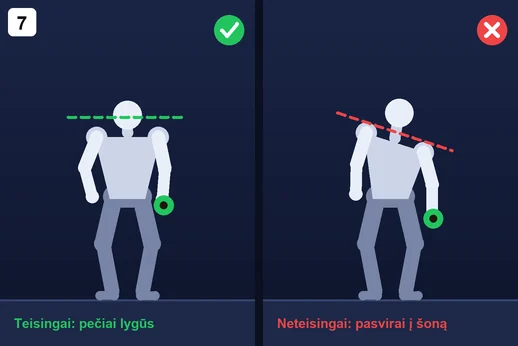
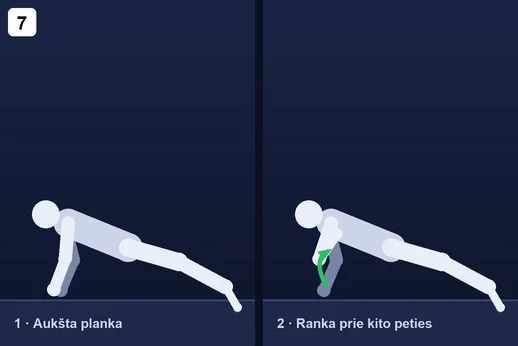
Hip thrust -> vienos kojos sėdmenų tiltas, carry -> pilvo pratimai be svorio
Hard Gym D3: Barbell Hip Thrust pakeistas į Single-Leg Glute Bridge (ant grindų,
kairė pusė pirma + papildomas setas). Kyokushin mix C7 ir Hard Gym D7: Kettlebell
Front Rack Carry -> Side Plank Hip Lift, Suitcase Carry -> Plank Shoulder Taps
(nekrauna trapecijų). Nauji piešiniai C_7s, C_7v, G_D3 (tools/draw_core.py).

diff --git a/tools/draw_gym.py b/tools/draw_gym.py
@@ -3,6 +3,7 @@
 Usage:  py tools/draw_gym.py [name ...]     (no names = all)
 Pictures reused from the Kyokushin program are copied with the right number by tools/make_hard_gym.py.
 """
+import math
 import sys
 
 from draw_exercises import Pic, dumbbell_side, go, side_figure
@@ -169,32 +170,25 @@ def gc7():
 
 
 def gd3():
-    """Barbell hip thrust: upper back on a bench, feet on the floor."""
+    """Single-leg glute bridge on the floor: one foot flat, the other leg straight, hips lifted."""
     pic, acc = Pic(), ACC["D"]
     for i in range(2):
         standing_view(pic, i, 1.15)
-        top = 240
-        rect(pic, 18, top, 96, top + 9, EQUIP_HI)
-        rect(pic, 28, top + 9, 36, 300, EQUIP)
-        rect(pic, 78, top + 9, 86, 300, EQUIP)
-        sh = (90, 232)
-        hip = (122, 276) if i == 0 else (142, 240)
-        ankle = (184, 292)
-        n_knee, n_ankle = limb(hip, ankle, 44, 44, (hip[0] + 44, hip[1] - 44))
-        f_knee, f_ankle = (n_knee[0] - 5, n_knee[1] + 2), (n_ankle[0] - 7, n_ankle[1])
-        bar = (hip[0] + 2, hip[1] - 12)
-        n_elbow, n_hand = limb(sh, bar, 30, 27, (sh[0] + 22, sh[1] + 22))
-        f_sh = (sh[0] - 3, sh[1] + 2)
-        f_elbow, f_hand = limb(f_sh, (bar[0] - 2, bar[1] + 1), 30, 27, (sh[0] + 18, sh[1] + 24))
-        j = dict(hip=hip, sh=sh, head=go(sh, 150 if i == 0 else 160, 20), n_knee=n_knee, n_ankle=n_ankle,
-                 n_toe=go(n_ankle, 0, 20), f_knee=f_knee, f_ankle=f_ankle, f_toe=go(f_ankle, 0, 20), f_sh=f_sh,
-                 n_elbow=n_elbow, n_hand=n_hand, f_elbow=f_elbow, f_hand=f_hand)
+        sh = (62, 284)
+        hip = (128, 284) if i == 0 else (134, 250)
+        f_knee, f_ankle = limb(hip, (190, 290), 44, 44, (hip[0] + 30, hip[1] - 60))
+        d = (f_knee[0] - hip[0], f_knee[1] - hip[1]) if i == 0 else (hip[0] - sh[0], hip[1] - sh[1])
+        u = (d[0] / math.hypot(*d), d[1] / math.hypot(*d))
+        n_knee = (hip[0] + u[0] * 44, hip[1] + u[1] * 44)
+        n_ankle = (hip[0] + u[0] * 88, hip[1] + u[1] * 88)
+        ang = math.degrees(math.atan2(-u[1], u[0]))
+        j = dict(hip=hip, sh=sh, head=go(sh, 178, 20), n_knee=n_knee, n_ankle=n_ankle, n_toe=go(n_ankle, ang + 90, 14),
+                 f_knee=f_knee, f_ankle=f_ankle, f_toe=go(f_ankle, 0, 18), f_sh=(sh[0] + 2, sh[1] + 2),
+                 n_elbow=(sh[0] + 28, 290), n_hand=(sh[0] + 54, 291), f_elbow=(sh[0] + 26, 291), f_hand=(sh[0] + 52, 292))
         side_figure(pic, j)
-        pic.path(arc_pts(bar, 25, 0, 360, 40), acc, 4.5)
-        pic.dot(bar, 5, GREY)
         if i:
-            pic.arrow((hip[0] - 6, 292), (hip[0] - 12, 276), (hip[0] - 4, 262), acc)
-        pic.caption("1 · Nugara ant suolo, klubai žemai" if not i else "2 · Kelk klubus, spausk sėdmenis")
+            pic.arrow((hip[0] - 6, 290), (hip[0] - 12, 274), (hip[0] - 4, 262), acc)
+        pic.caption("1 · Viena koja tiesi, klubai žemai" if not i else "2 · Kelk klubus, spausk sėdmenį")
     pic.badge(3)
     pic.save("G_D3.webp")
 

diff --git a/tools/draw_variants.py b/tools/draw_variants.py
@@ -626,21 +626,20 @@ def c6v():
 
 
 def c7v():
+    """Plank shoulder taps: straight-arm plank, one hand taps the opposite shoulder, hips stay still."""
     pic, acc = Pic(), ACCENT["C"]
-    for i, lean in enumerate((False, True)):
-        standing_view(pic, i)
-        if not lean:
-            l_sh, r_sh, head, r_hand = (CX - 28, 152), (CX + 28, 152), (CX, 132), (CX + 32, 210)
-        else:
-            l_sh, r_sh, head, r_hand = (CX - 22, 148), (CX + 30, 166), (CX + 8, 130), (CX + 38, 222)
-        front(pic, (CX - 12, 206), (CX + 12, 206), l_sh, r_sh, head, (CX - 14, 292), (CX + 14, 292),
-              (CX - 32, 206), r_hand, l_elbow=(-6, 0), r_elbow=(6, 0))
-        db_end(pic, (r_hand[0] + 1, r_hand[1] + 4), acc)
-        a = (l_sh[0] - 26, l_sh[1] - 18)
-        b = (r_sh[0] + 26, r_sh[1] - 18 + (r_sh[1] - l_sh[1]) * 0.9)
-        pic.path([a, b], GREEN if not lean else RED, 2.6, dashed=True)
-        pic.mark(not lean)
-        pic.caption("Teisingai: pečiai lygūs" if not lean else "Neteisingai: pasvirai į šoną", GREEN if not lean else RED)
+    for i in range(2):
+        standing_view(pic, i, 1.2)
+        j = pushup((78, 236), 292)
+        if i:
+            sh = j["sh"]
+            j["n_elbow"] = (sh[0] - 10, sh[1] + 30)
+            j["n_hand"] = (sh[0] + 4, sh[1] + 9)
+        side_figure(pic, j)
+        if i:
+            hand = j["n_hand"]
+            pic.arrow((hand[0] - 8, 288), (hand[0] - 20, 266), (hand[0] - 6, hand[1] + 14), acc)
+        pic.caption("1 · Aukšta planka" if not i else "2 · Ranka prie kito peties")
     pic.badge(7)
     pic.save("C_7v.webp")
 

diff --git a/tools/make_hard_gym.py b/tools/make_hard_gym.py
@@ -115,13 +115,13 @@ C = [
 D = [
     with_variants(reuse("C1", "D", 1, 3, "3", 75), reuse("C1v", "D", 1, 3, "3", 75, True)),
     reuse("C2", "D", 2, 4, "5", 150),
-    new("D", 3, "Barbell Hip Thrust", 4, "8–10", 90,
-        "Viršutinė nugara ant suolo krašto, pėdos ant žemės, štanga per klubus (su minkšta apsauga). Kelk klubus, kol kūnas tiesus nuo pečių iki kelių, viršuje 1 s suspausk sėdmenis.",
-        "Sėdmenys ir dubens jėga."),
+    new("D", 3, "Single-Leg Glute Bridge", 4, "10–12 / koja", 60,
+        "Gulėk ant nugaros, vienos kojos pėda ant grindų arti sėdmenų, kita koja ištiesta. Remdamasis kulnu kelk klubus, kol kūnas tiesus nuo pečių iki kelio, viršuje 1–2 s suspausk sėdmenį ir lėtai nuleisk. Per lengva: hantelis ant klubo arba 3 s pauzė viršuje.",
+        "Sėdmenys ir klubo tiesimas spyriams, kiekviena koja atskirai.", startSide="left", bonusSets=1),
     with_variants(reuse("C4", "D", 4, 3, "10 / koja", 90), reuse("C4v", "D", 4, 3, "8 / koja", 90, True)),
     with_variants(reuse("C10", "D", 5, 3, "6 / pusė", 60), reuse("C10v", "D", 5, 3, "45 s", 45, True)),
     with_variants(reuse("A3v", "D", 6, 3, "8 / koja", 75), reuse("B10v", "D", 6, 3, "5 / koja", 45, True)),
-    with_variants(reuse("C7", "D", 7, 3, "30–40 m", 75), reuse("C7v", "D", 7, 3, "30 m / ranka", 75, True)),
+    with_variants(reuse("C7", "D", 7, 3, "10–12 / pusė", 60), reuse("C7v", "D", 7, 3, "10 / pusė", 60, True)),
     with_variants(reuse("A8", "D", 8, 3, "10 / pusė", 50), reuse("A8v", "D", 8, 3, "10 / pusė", 50, True)),
 ]
 

diff --git a/tools/add_variants.py b/tools/add_variants.py
@@ -68,9 +68,9 @@ V = {
     "C6": dict(name="Rotational Med Ball Slam", tag="į šoną", sets=4, reps="5 / pusė", restSeconds=60,
                description="Pakelk kamuolį virš galvos ir sukdamas liemenį trenk jį įstrižai į grindis šalia pėdos. Keisk puses.",
                focus="Sprogstamai, jėga iš liemens."),
-    "C7": dict(name="Suitcase Carry", tag="viena ranka", sets=3, reps="30–40 m / ranka", restSeconds=75,
-               description="Sunkų hantelį ar kettlebell neškis vienoje rankoje. Eik tiesiai, nesilenk į šoną, pečiai lygūs.",
-               focus="Šoninis presas, laikysena."),
+    "C7": dict(name="Plank Shoulder Taps", tag="be svorio", sets=3, reps="10 / pusė", restSeconds=60,
+               description="Aukšta planka ant ištiestų rankų, pėdos šiek tiek plačiau nei klubai. Lėtai pakelk vieną ranką ir paliesk priešingą petį, tada kitą. Klubai nesisuka ir nesisupa. Per sunku: pėdas statyk plačiau.",
+               focus="Pilvas laiko kūną nejudantį, jokio svorio rankose."),
     "C8": dict(name="Dead Bug", tag="ant nugaros", sets=3, reps="8 / pusė", restSeconds=60,
                description="Gulėk ant nugaros, rankos į viršų, keliai virš klubų. Lėtai tiesk priešingą ranką ir koją link grindų, juosmuo prispaustas, ir grįžk.",
                focus="Juosmuo prispaustas prie grindų."),

diff --git a/tools/draw_core.py b/tools/draw_core.py
@@ -1,0 +1,27 @@
+"""C7 core picture that replaced the carries (no load in the hands): side plank hip lift (public/assets/C_7s.webp).
+
+Usage:  py tools/draw_core.py
+"""
+from draw_exercises import ACCENT, Pic, side_figure
+from draw_variants import side_plank, standing_view
+
+
+def c7s():
+    """Side plank hip lift: hips lowered towards the floor, then lifted until the body is straight."""
+    pic, acc = Pic(), ACCENT["C"]
+    for i in range(2):
+        standing_view(pic, i, 1.2)
+        j, _ = side_plank(i == 0)
+        side_figure(pic, j)
+        h = j["hip"]
+        if i:
+            pic.arrow((h[0] + 16, h[1] + 22), (h[0] + 24, h[1] + 8), (h[0] + 16, h[1] - 8), acc)
+        else:
+            pic.arrow((h[0] + 16, h[1] - 26), (h[0] + 24, h[1] - 12), (h[0] + 16, h[1] + 2), acc)
+        pic.caption("1 · Nuleisk klubus žemyn" if not i else "2 · Kelk aukštai, kūnas tiesus")
+    pic.badge(7)
+    pic.save("C_7s.webp")
+
+
+if __name__ == "__main__":
+    c7s()
